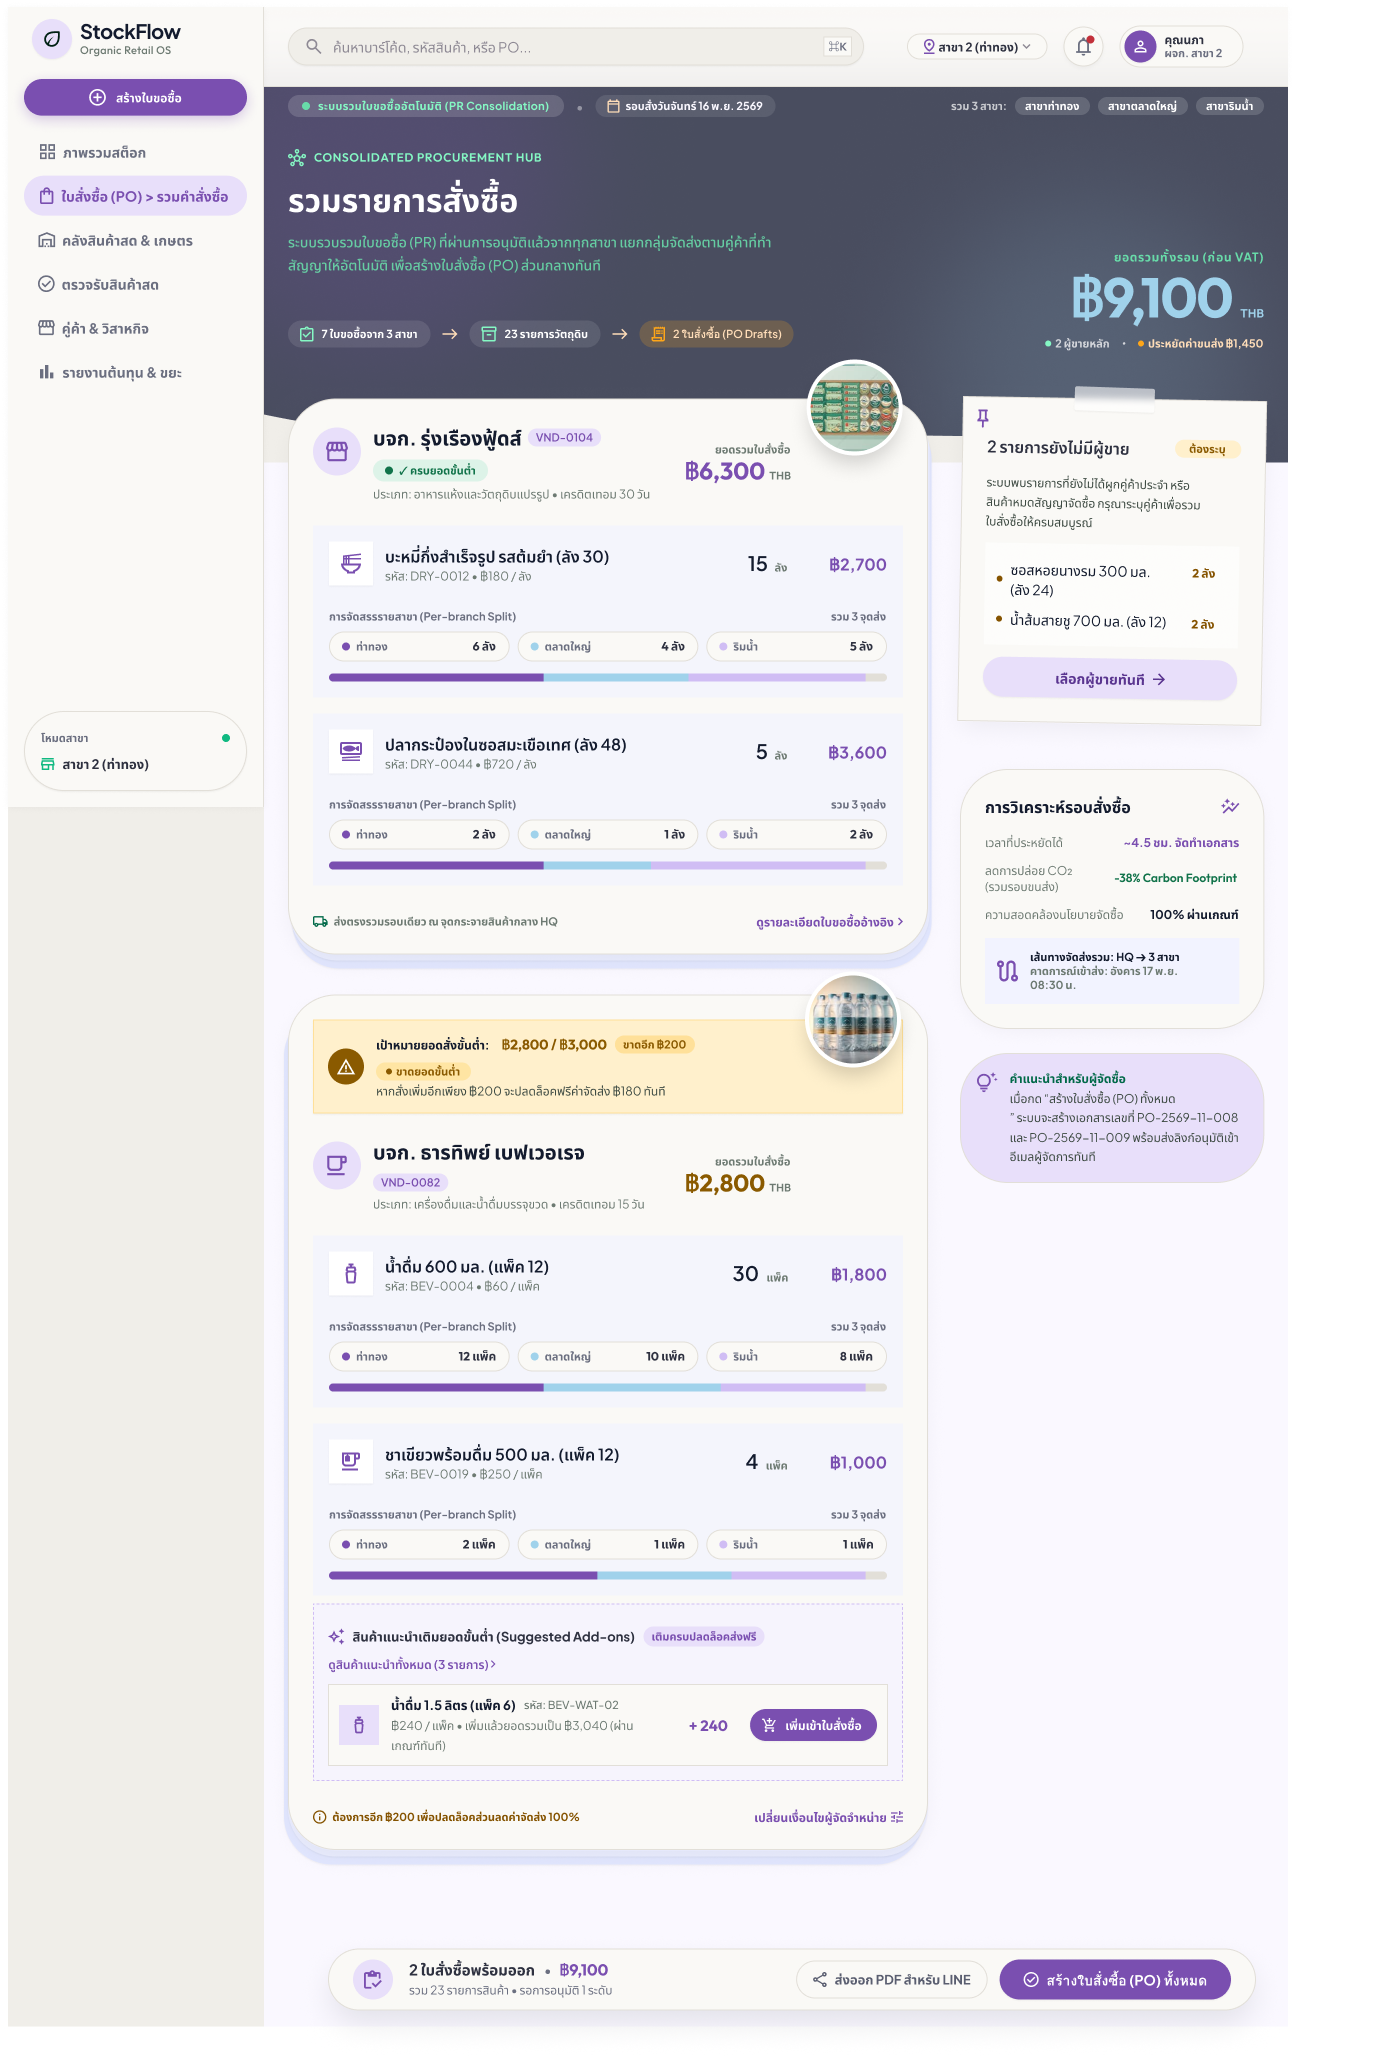
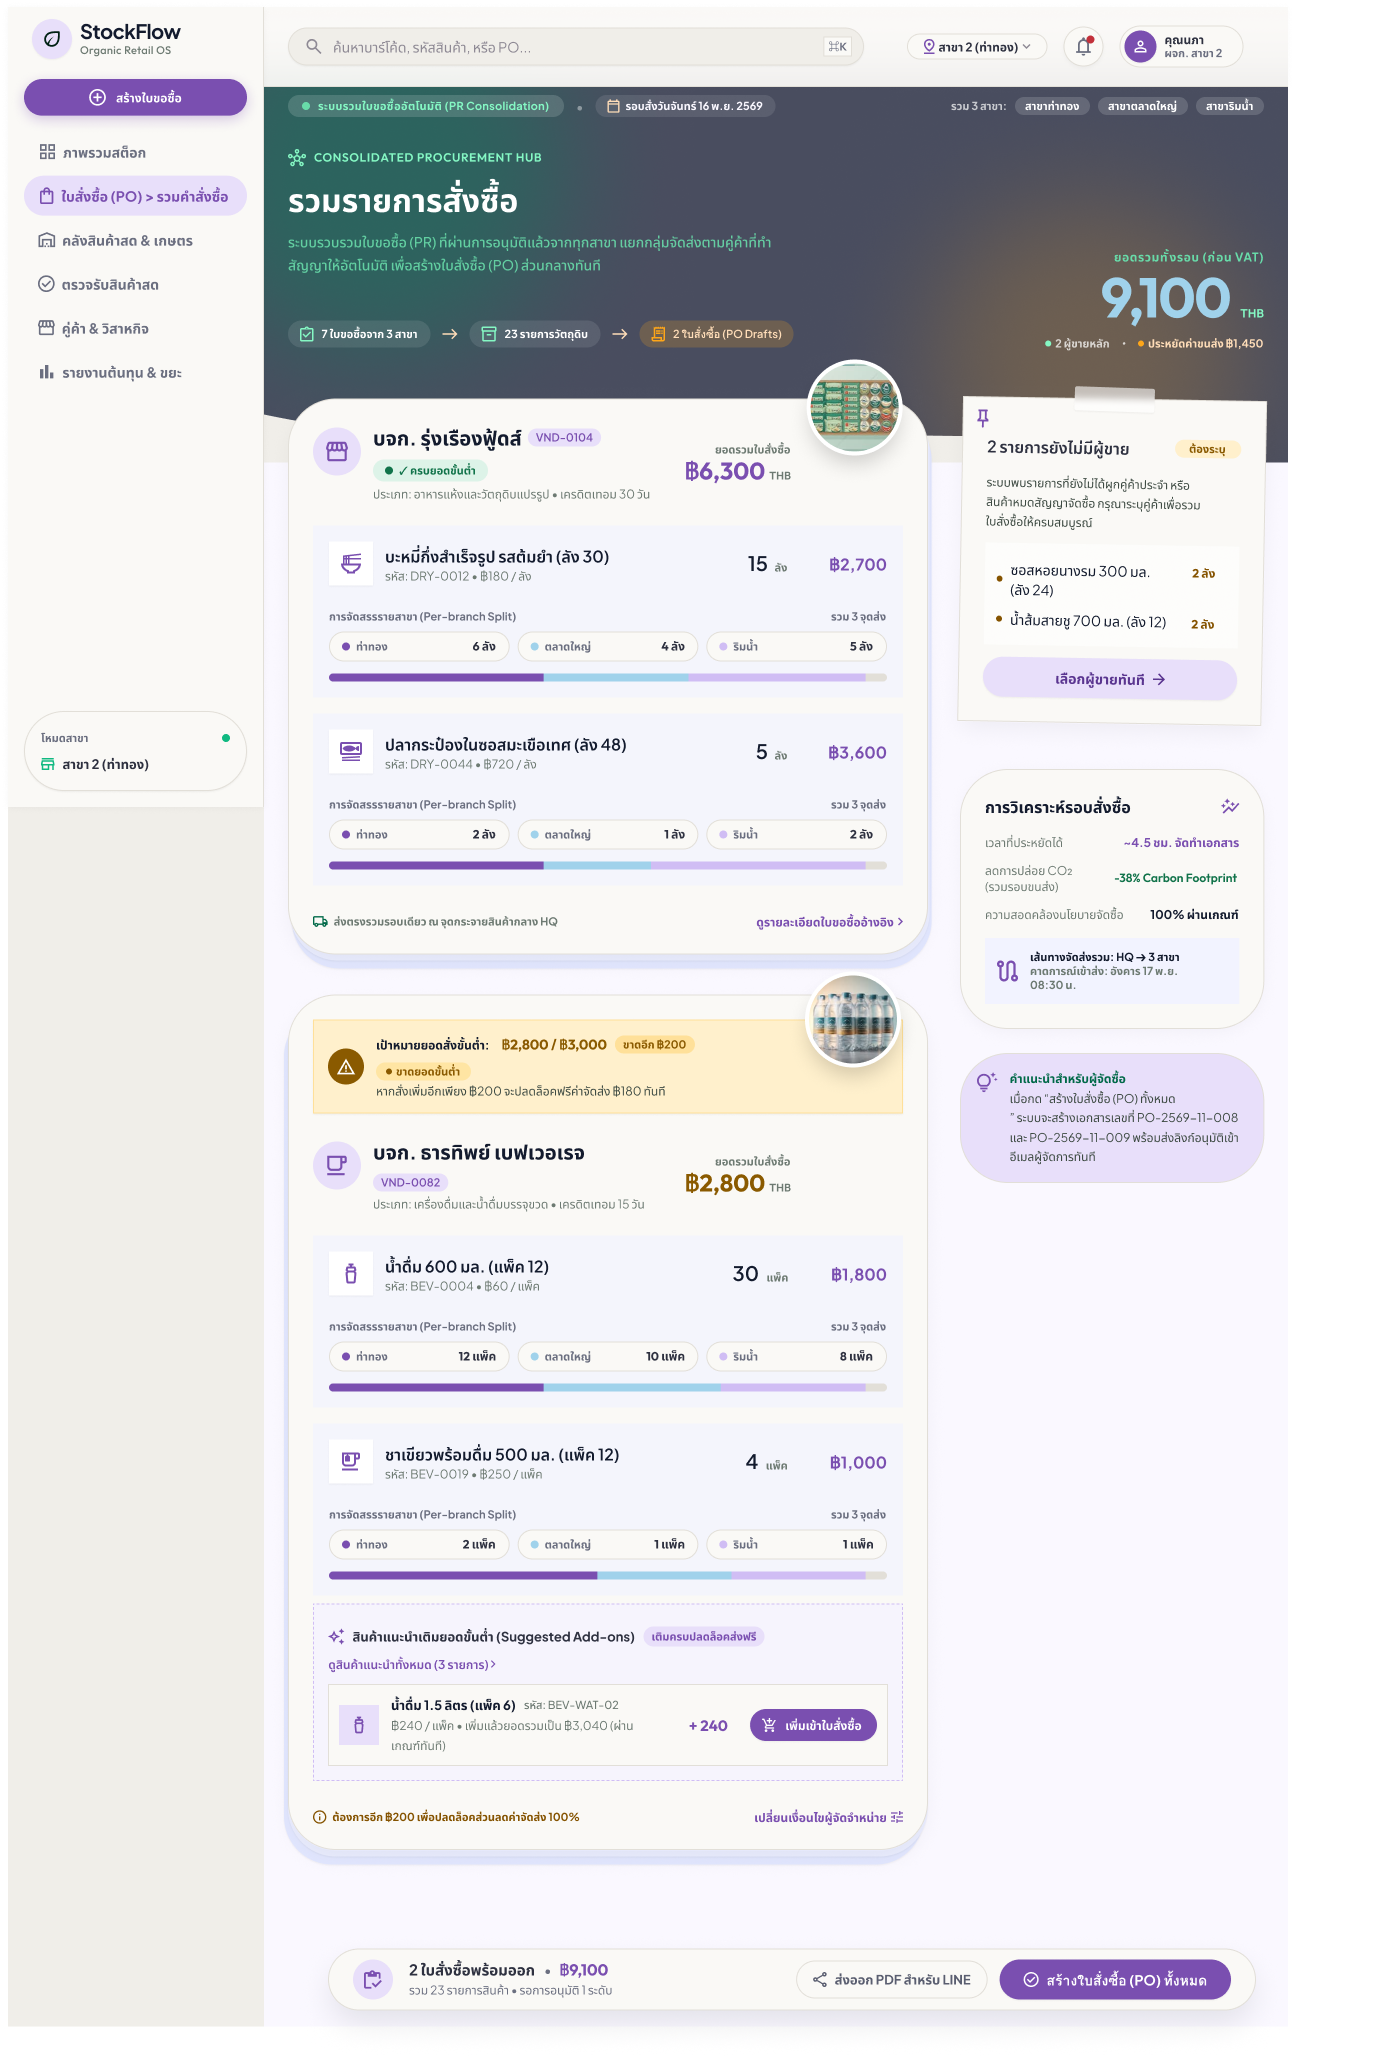
Docs/ux wireflow update UX/UI Gradient Shader and Coupon promotion (#16)
* docs (ux/ui): design screen finished wait arrange annotated and template html

* docs (ux/ui): finalize ux/ui phase v1.0 and README.md

* docs(ux/ui) : update README.md docs v0.2

* docs(ux) : placement screen instead template html from design and fix issue missing

* chore: remove build output under apps/ committed by mistake

bin/ and obj/ from apps/api were added in 32de6f5 because this branch has no .gitignore yet (it arrives with chore/walking-skeleton).

---------

Changed region(s): [[0.1853, 0.0311, 0.4016, 0.1556], [0.6796, 0.0933, 0.8958, 0.2178]]

diff --git a/docs/ux/template-html/web/W02-A_US002_in-limit/code.html b/docs/ux/template-html/web/W02-A_US002_in-limit/code.html
@@ -86,10 +86,6 @@
     background-color: #FFF0CC !important;
     color: #8A5A00 !important;
   }
-  .bg-secondary-fixed/30 {
-    background-color: #FFF0CC !important;
-    color: #8A5A00 !important;
-  }
   .border-l-secondary-container {
     border-left-color: #8A5A00 !important;
   }
